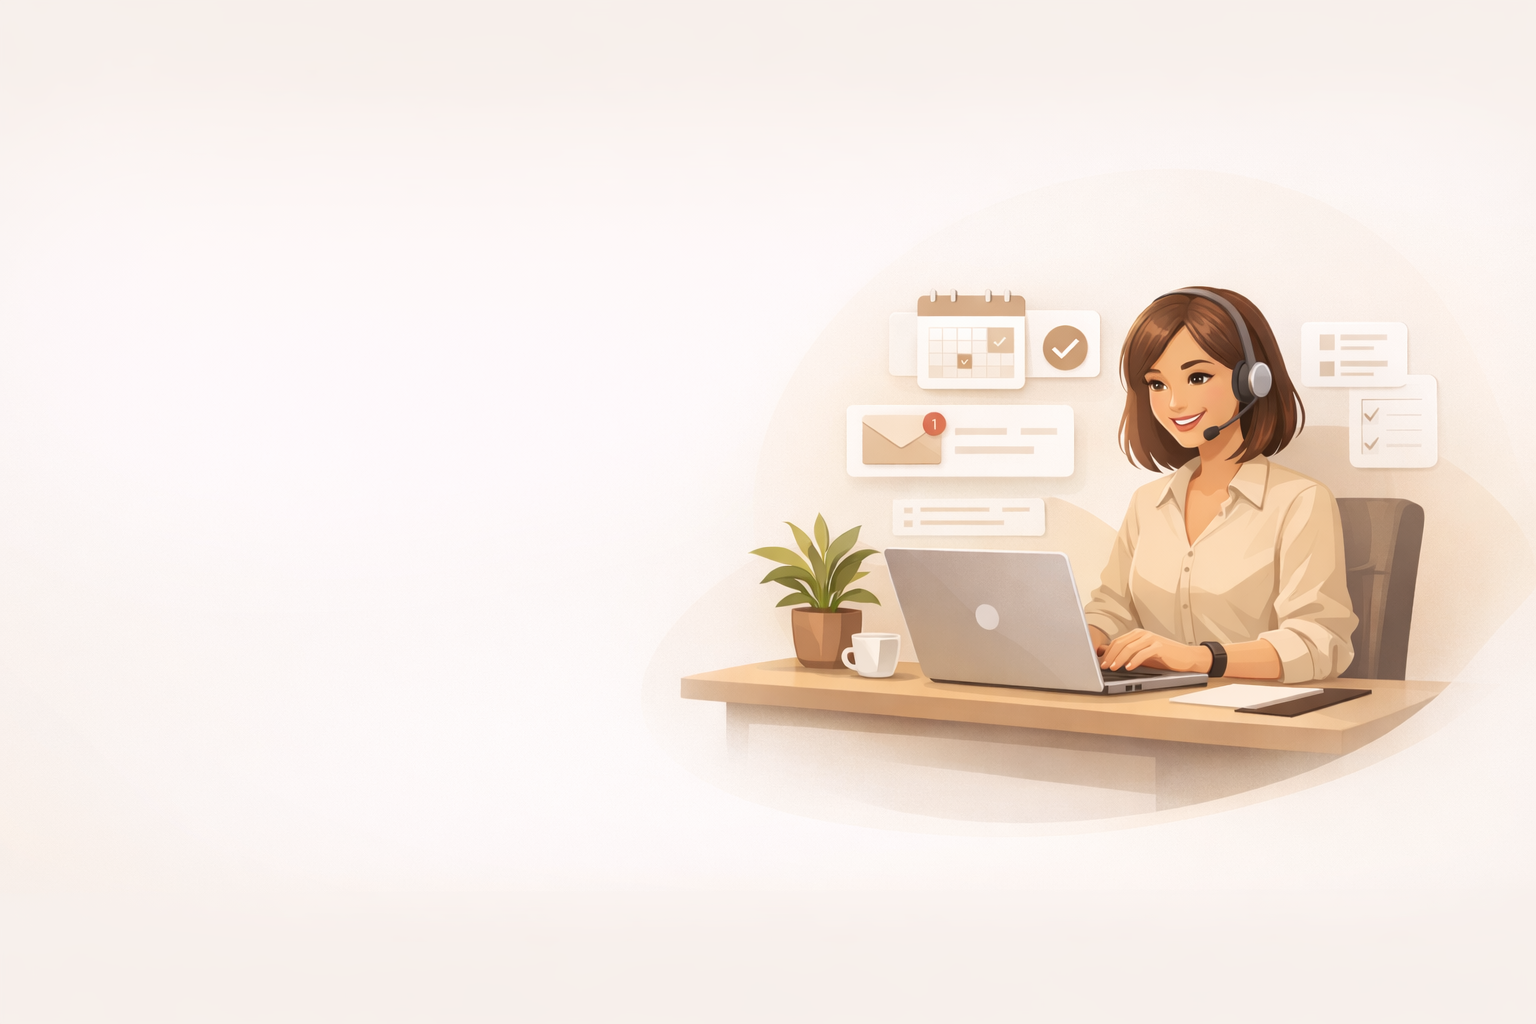
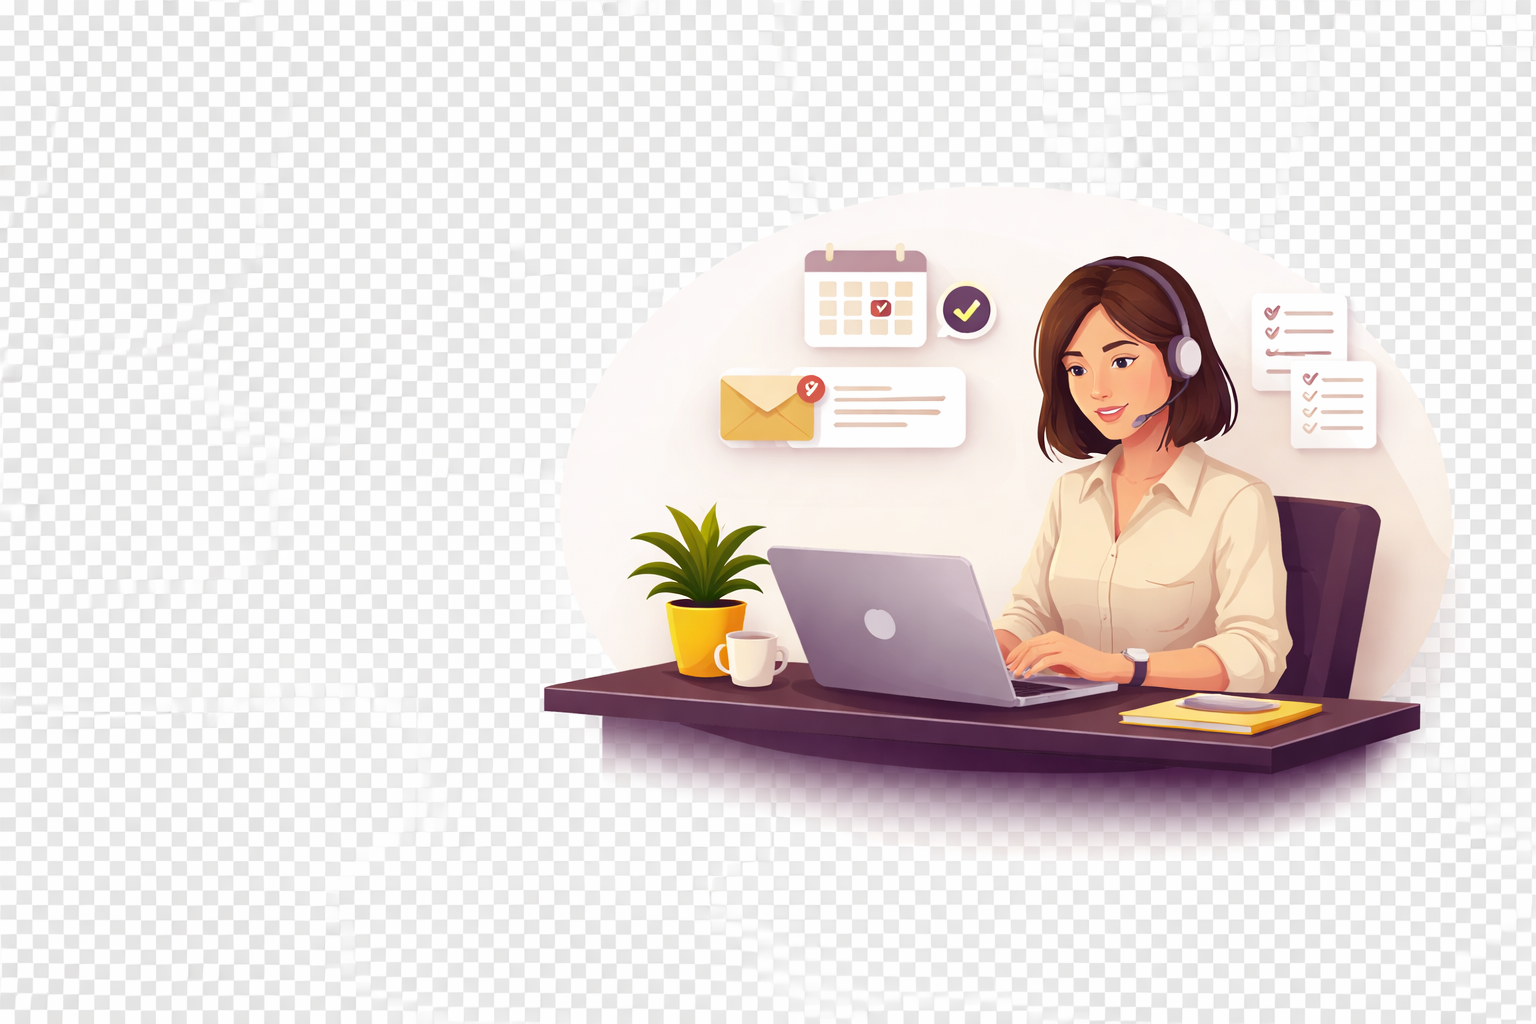
Update hero section: remove background, enlarge elements and text

diff --git a/index.html b/index.html
@@ -115,108 +115,106 @@
     </header>
 
     <!-- Hero Section -->
-    <section id="hero" class="min-h-screen pt-20 bg-gradient-to-br from-[#FAF9F6] via-[#F8F7F4] to-[#F5F4F1] flex items-center relative overflow-hidden">
-        <!-- Subtle Background Texture -->
-        <div class="absolute inset-0 opacity-5" style="background-image: repeating-linear-gradient(45deg, transparent, transparent 35px, rgba(45,27,68,0.03) 35px, rgba(45,27,68,0.03) 70px);"></div>
+    <section id="hero" class="min-h-screen pt-20 flex items-center relative overflow-hidden">
         
         <div class="max-w-7xl mx-auto px-4 sm:px-6 lg:px-8 py-16 relative z-10">
-            <!-- Floating Panel -->
-            <div class="bg-white/80 backdrop-blur-sm rounded-3xl shadow-2xl p-8 md:p-12 lg:p-16 border border-white/50">
+            <!-- Content Panel - No Background -->
+            <div class="p-8 md:p-12 lg:p-16">
                 <div class="grid grid-cols-1 lg:grid-cols-2 gap-12 lg:gap-16 items-center">
                     
                     <!-- Left Side - Text & CTA -->
                     <div class="order-2 lg:order-1">
                         <!-- Main Header -->
-                        <h1 class="text-5xl md:text-6xl lg:text-7xl font-bold text-[#3D2B1F] mb-4 leading-tight tracking-tight">
+                        <h1 class="text-6xl md:text-7xl lg:text-8xl font-bold text-[#2D1B44] mb-6 leading-tight tracking-tight">
                             Scale Your Business
                         </h1>
                         
                         <!-- Sub-Header -->
-                        <h2 class="text-3xl md:text-4xl lg:text-5xl font-semibold text-[#3D2B1F] mb-6 leading-tight">
+                        <h2 class="text-4xl md:text-5xl lg:text-6xl font-semibold text-[#4B246C] mb-8 leading-tight">
                             Without Hiring Full-Time Staff
                         </h2>
                         
                         <!-- Body Text -->
-                        <p class="text-lg md:text-xl text-[#6B5B4F] font-light mb-8 leading-relaxed">
+                        <p class="text-xl md:text-2xl text-[#2D1B44]/80 font-light mb-10 leading-relaxed">
                             We provide trained virtual assistants to manage your daily tasks, so you can focus on what truly matters — growing your business.
                         </p>
                         
                         <!-- Buttons -->
-                        <div class="flex flex-col sm:flex-row gap-4 mb-8">
-                            <a href="#contact" class="inline-flex items-center justify-center px-8 py-4 bg-[#3D2B1F] text-white font-semibold rounded-full hover:bg-[#2D1B44] transition-all duration-300 transform hover:scale-105 shadow-lg hover:shadow-xl">
-                                Book Free Consultation
+                        <div class="flex flex-col sm:flex-row gap-6 mb-10">
+                            <a href="pricing.html" class="inline-flex items-center justify-center px-10 py-5 bg-[#2D1B44] text-white font-semibold rounded-full hover:bg-[#4B246C] transition-all duration-300 transform hover:scale-105 shadow-lg hover:shadow-xl text-lg">
+                                Get Custom Pricing
                             </a>
-                            <a href="#task-management" class="inline-flex items-center justify-center px-8 py-4 bg-white text-[#3D2B1F] font-semibold rounded-full border-2 border-[#D4C5B9] hover:border-[#3D2B1F] hover:bg-[#FAF9F6] transition-all duration-300">
+                            <a href="#task-management" class="inline-flex items-center justify-center px-10 py-5 bg-white text-[#2D1B44] font-semibold rounded-full border-3 border-[#2D1B44] hover:border-[#4B246C] hover:bg-[#FAF9F6] transition-all duration-300 text-lg">
                                 View Services
                             </a>
                         </div>
                         
                         <!-- Trust Text -->
-                        <p class="text-sm text-[#9B8B7F] italic mb-6">
+                        <p class="text-base text-[#4B246C]/70 italic mb-8">
                             Trusted by entrepreneurs & startups worldwide
                         </p>
                         
                         <!-- Checklist -->
-                        <div class="space-y-3">
-                            <div class="flex items-center gap-3">
-                                <svg class="w-5 h-5 text-[#4B246C] flex-shrink-0" fill="currentColor" viewBox="0 0 20 20">
+                        <div class="space-y-4">
+                            <div class="flex items-center gap-4">
+                                <svg class="w-6 h-6 text-[#4B246C] flex-shrink-0" fill="currentColor" viewBox="0 0 20 20">
                                     <path fill-rule="evenodd" d="M16.707 5.293a1 1 0 010 1.414l-8 8a1 1 0 01-1.414 0l-4-4a1 1 0 011.414-1.414L8 12.586l7.293-7.293a1 1 0 011.414 0z" clip-rule="evenodd"/>
                                 </svg>
-                                <span class="text-[#3D2B1F] font-medium">No long-term contracts</span>
+                                <span class="text-[#2D1B44] font-medium text-lg">No long-term contracts</span>
                             </div>
-                            <div class="flex items-center gap-3">
-                                <svg class="w-5 h-5 text-[#4B246C] flex-shrink-0" fill="currentColor" viewBox="0 0 20 20">
+                            <div class="flex items-center gap-4">
+                                <svg class="w-6 h-6 text-[#4B246C] flex-shrink-0" fill="currentColor" viewBox="0 0 20 20">
                                     <path fill-rule="evenodd" d="M16.707 5.293a1 1 0 010 1.414l-8 8a1 1 0 01-1.414 0l-4-4a1 1 0 011.414-1.414L8 12.586l7.293-7.293a1 1 0 011.414 0z" clip-rule="evenodd"/>
                                 </svg>
-                                <span class="text-[#3D2B1F] font-medium">Affordable pricing</span>
+                                <span class="text-[#2D1B44] font-medium text-lg">Affordable pricing</span>
                             </div>
-                            <div class="flex items-center gap-3">
-                                <svg class="w-5 h-5 text-[#4B246C] flex-shrink-0" fill="currentColor" viewBox="0 0 20 20">
+                            <div class="flex items-center gap-4">
+                                <svg class="w-6 h-6 text-[#4B246C] flex-shrink-0" fill="currentColor" viewBox="0 0 20 20">
                                     <path fill-rule="evenodd" d="M16.707 5.293a1 1 0 010 1.414l-8 8a1 1 0 01-1.414 0l-4-4a1 1 0 011.414-1.414L8 12.586l7.293-7.293a1 1 0 011.414 0z" clip-rule="evenodd"/>
                                 </svg>
-                                <span class="text-[#3D2B1F] font-medium">Fast onboarding</span>
+                                <span class="text-[#2D1B44] font-medium text-lg">Fast onboarding</span>
                             </div>
                         </div>
                     </div>
                     
                     <!-- Right Side - Illustration -->
                     <div class="order-1 lg:order-2 relative">
-                        <div class="relative bg-gradient-to-br from-[#F8F6F3] to-[#F0EDE8] rounded-2xl p-6 shadow-inner">
+                        <div class="relative rounded-2xl">
                             <!-- Main Illustration Image -->
-                            <img src="assets/images/Hero section.png" alt="Professional Virtual Assistant - Woman with headset working on laptop" class="w-full h-auto rounded-xl shadow-lg">
+                            <img src="assets/images/Hero section.png" alt="Professional Virtual Assistant - Woman with headset working on laptop" class="w-full h-auto rounded-xl shadow-2xl">
                             
                             <!-- Floating Icons -->
                             <!-- Calendar Icon -->
-                            <div class="absolute -top-4 -left-4 bg-white rounded-xl shadow-lg p-3 animate-float">
-                                <svg class="w-8 h-8 text-[#4B246C]" fill="none" stroke="currentColor" viewBox="0 0 24 24">
+                            <div class="absolute -top-6 -left-6 bg-white rounded-xl shadow-lg p-4 animate-float">
+                                <svg class="w-10 h-10 text-[#4B246C]" fill="none" stroke="currentColor" viewBox="0 0 24 24">
                                     <rect x="3" y="4" width="18" height="18" rx="2" stroke-width="2"/>
                                     <line x1="16" y1="2" x2="16" y2="6" stroke-width="2" stroke-linecap="round"/>
                                     <line x1="8" y1="2" x2="8" y2="6" stroke-width="2" stroke-linecap="round"/>
                                     <line x1="3" y1="10" x2="21" y2="10" stroke-width="2"/>
-                                    <text x="12" y="18" font-size="8" fill="#4B246C" text-anchor="middle" font-weight="bold">15</text>
+                                    <text x="12" y="18" font-size="10" fill="#4B246C" text-anchor="middle" font-weight="bold">15</text>
                                 </svg>
                             </div>
                             
                             <!-- Checkmark Circle -->
-                            <div class="absolute top-1/4 -right-4 bg-white rounded-xl shadow-lg p-3 animate-float-delayed">
-                                <svg class="w-8 h-8 text-green-500" fill="currentColor" viewBox="0 0 20 20">
+                            <div class="absolute top-1/4 -right-6 bg-white rounded-xl shadow-lg p-4 animate-float-delayed">
+                                <svg class="w-10 h-10 text-green-500" fill="currentColor" viewBox="0 0 20 20">
                                     <path fill-rule="evenodd" d="M10 18a8 8 0 100-16 8 8 0 000 16zm3.707-9.293a1 1 0 00-1.414-1.414L9 10.586 7.707 9.293a1 1 0 00-1.414 1.414l2 2a1 1 0 001.414 0l4-4z" clip-rule="evenodd"/>
                                 </svg>
                             </div>
                             
                             <!-- Email with Notification -->
-                            <div class="absolute bottom-1/4 -left-6 bg-white rounded-xl shadow-lg p-3 animate-float">
+                            <div class="absolute bottom-1/4 -left-8 bg-white rounded-xl shadow-lg p-4 animate-float">
                                 <div class="relative">
-                                    <svg class="w-8 h-8 text-[#4B246C]" fill="none" stroke="currentColor" viewBox="0 0 24 24">
+                                    <svg class="w-10 h-10 text-[#4B246C]" fill="none" stroke="currentColor" viewBox="0 0 24 24">
                                         <path stroke-linecap="round" stroke-linejoin="round" stroke-width="2" d="M3 8l7.89 5.26a2 2 0 002.22 0L21 8M5 19h14a2 2 0 002-2V7a2 2 0 00-2-2H5a2 2 0 00-2 2v10a2 2 0 002 2z"/>
                                     </svg>
-                                    <span class="absolute -top-1 -right-1 bg-red-500 text-white text-xs rounded-full w-5 h-5 flex items-center justify-center font-bold">1</span>
+                                    <span class="absolute -top-1 -right-1 bg-red-500 text-white text-sm rounded-full w-6 h-6 flex items-center justify-center font-bold">1</span>
                                 </div>
                             </div>
                             
                             <!-- Todo List -->
-                            <div class="absolute -bottom-4 right-8 bg-white rounded-xl shadow-lg p-3 animate-float-delayed">
-                                <svg class="w-8 h-8 text-[#4B246C]" fill="none" stroke="currentColor" viewBox="0 0 24 24">
+                            <div class="absolute -bottom-6 right-10 bg-white rounded-xl shadow-lg p-4 animate-float-delayed">
+                                <svg class="w-10 h-10 text-[#4B246C]" fill="none" stroke="currentColor" viewBox="0 0 24 24">
                                     <path stroke-linecap="round" stroke-linejoin="round" stroke-width="2" d="M9 5H7a2 2 0 00-2 2v12a2 2 0 002 2h10a2 2 0 002-2V7a2 2 0 00-2-2h-2M9 5a2 2 0 002 2h2a2 2 0 002-2M9 5a2 2 0 012-2h2a2 2 0 012 2m-6 9l2 2 4-4"/>
                                 </svg>
                             </div>
